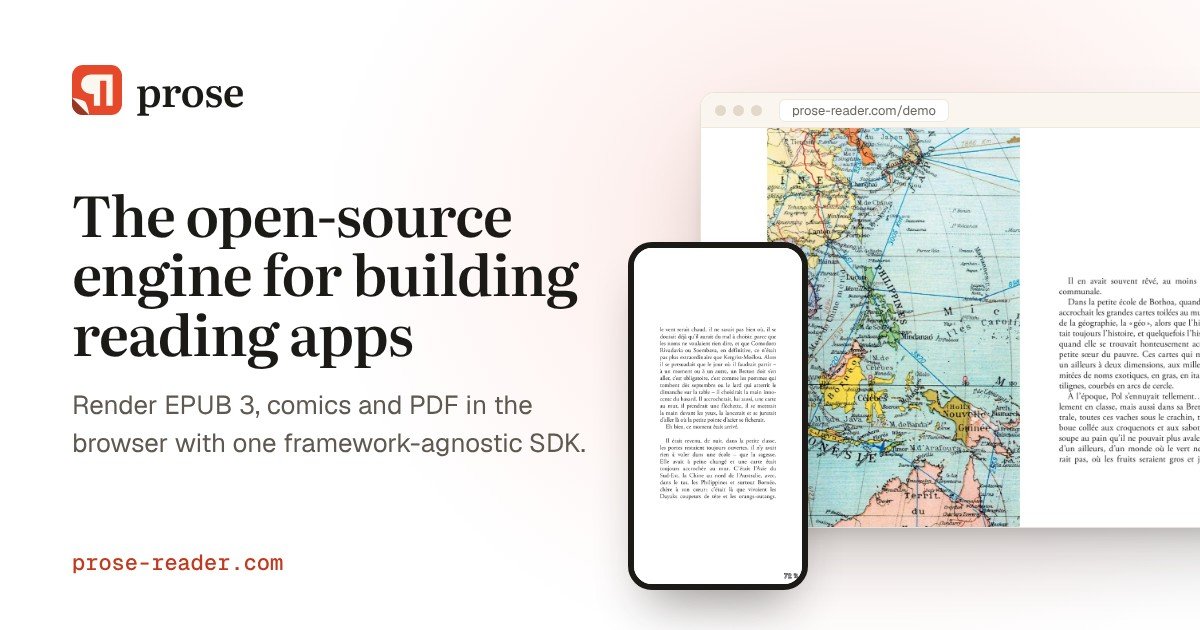
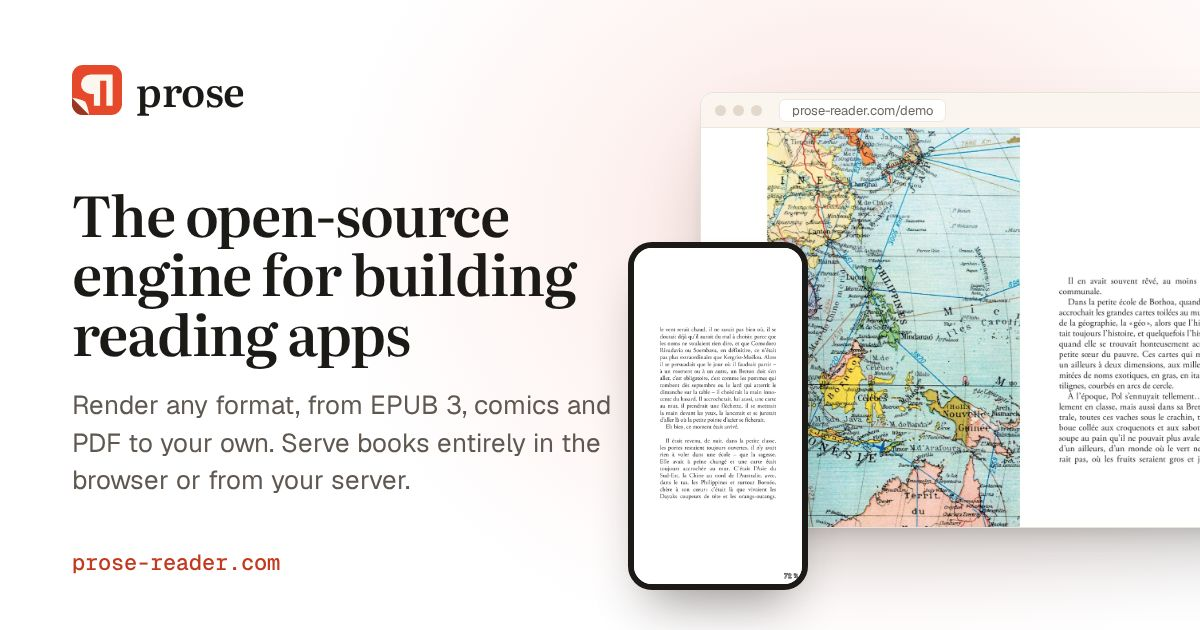
feat(front): say prose renders any format and serves books from anywhere
The tagline only named EPUB 3, comics and PDF, which read as the list of
what prose supports. It now leads with any format, keeps those three as
the ones that are ready, and says enhancers add the rest. It also says a
book can be served from anywhere, entirely in the browser or from a
server, which it did not mention at all.

The hero, the page's description, link preview and structured data, and
the social card carry the new wording. The Enhancers card lists formats
among what an enhancer adds, the Streamer card names every place a
streamer runs, the formats answer of the FAQ leads with "any format", and
the FAQ answers whether a server is needed.

The social card is rendered again from its source, with the browsers of
the browser tests.

diff --git a/apps/front/index.html b/apps/front/index.html
@@ -33,7 +33,7 @@
     <title>prose, the open-source engine for building reading apps</title>
     <meta
       name="description"
-      content="Render EPUB 3, comics and PDF with a single, framework-agnostic SDK, and ship your own reader, your way."
+      content="Render any format: EPUB 3, comics and PDF are ready, and enhancers add the rest. Serve books from anywhere, entirely in the browser or from your server. One framework-agnostic SDK to ship your own reader, your way."
     />
     <meta name="author" content="Maxime Bret" />
     <link rel="canonical" href="https://prose-reader.com/" />
@@ -47,7 +47,7 @@
     />
     <meta
       property="og:description"
-      content="Render EPUB 3, comics and PDF with a single, framework-agnostic SDK, and ship your own reader, your way."
+      content="Render any format: EPUB 3, comics and PDF are ready, and enhancers add the rest. Serve books from anywhere, entirely in the browser or from your server. One framework-agnostic SDK to ship your own reader, your way."
     />
     <meta property="og:image" content="https://prose-reader.com/social-card.jpg" />
     <meta property="og:image:width" content="1200" />
@@ -76,7 +76,7 @@
             "@type": "SoftwareSourceCode",
             "@id": "https://prose-reader.com/#software",
             "name": "prose",
-            "description": "Render EPUB 3, comics and PDF with a single, framework-agnostic SDK, and ship your own reader, your way.",
+            "description": "Render any format: EPUB 3, comics and PDF are ready, and enhancers add the rest. Serve books from anywhere, entirely in the browser or from your server. One framework-agnostic SDK to ship your own reader, your way.",
             "url": "https://prose-reader.com/",
             "codeRepository": "https://github.com/mbret/prose-reader",
             "programmingLanguage": "TypeScript",

diff --git a/apps/front/src/landing/sections/Faq.tsx b/apps/front/src/landing/sections/Faq.tsx
@@ -29,7 +29,12 @@ const questions: { question: string; answer: ReactNode }[] = [
   {
     question: "Which formats can it read?",
     answer:
-      "EPUB 3, comics in CBZ or CBR, PDF, plain text and audiobooks. Enhancers can teach it new formats.",
+      "Any format. EPUB 3, comics in CBZ or CBR, PDF, plain text and audiobooks are ready to use, and an enhancer teaches it any other.",
+  },
+  {
+    question: "Do I need a server?",
+    answer:
+      "No. A book can open entirely in the browser, from a file the user picks or downloads, or be served by your own server. The reader asks for a manifest and the resources it lists, and you decide where each one comes from.",
   },
   {
     question: "Does it work with React or React Native?",

diff --git a/apps/front/src/landing/sections/Features.tsx b/apps/front/src/landing/sections/Features.tsx
@@ -70,7 +70,7 @@ const features: {
     icon: LuLayers,
     title: "Enhancers",
     description:
-      "Add gestures, search, annotations or your own features to the reader.",
+      "Add new formats, gestures, search, annotations or features of your own.",
     href: links.enhancers,
     linkTopic: "enhancers",
   },
@@ -86,7 +86,7 @@ const features: {
     icon: LuServer,
     title: "Streamer",
     description:
-      "Serve books from a service worker, from Node or from React Native.",
+      "Serve books from anywhere: the page itself, a service worker, a Node server or React Native.",
     href: links.streamer,
     linkTopic: "the streamer",
   },

diff --git a/apps/front/src/landing/sections/Hero.tsx b/apps/front/src/landing/sections/Hero.tsx
@@ -138,8 +138,10 @@ export const Hero = () => (
           lineHeight="1.55"
           textWrap="pretty"
         >
-          Render EPUB 3, comics and PDF with a single, framework-agnostic SDK,
-          and ship your own reader, your way.
+          Render any format: EPUB 3, comics and PDF are ready, and enhancers add
+          the rest. Serve books from anywhere, entirely in the browser or from
+          your server. One framework-agnostic SDK to ship your own reader, your
+          way.
         </Text>
         <Flex wrap="wrap" gap="3" mt="8">
           <Button asChild size="xl" rounded="xl" fontWeight="semibold">

diff --git a/assets/brand/social-card.html b/assets/brand/social-card.html
@@ -30,7 +30,7 @@ p { margin: 26px 0 0; font-size: 26px; line-height: 1.45; color: #5E5850; }
 <div class="copy">
   <div class="wordmark"><img src="logo.svg" alt="">prose</div>
   <h1>The open-source engine for building reading apps</h1>
-  <p>Render EPUB 3, comics and PDF in the browser with one framework-agnostic SDK.</p>
+  <p>Render any format, from EPUB 3, comics and PDF to your own. Serve books entirely in the browser or from your server.</p>
 </div>
 <div class="url">prose-reader.com</div>
 <div class="screens">
